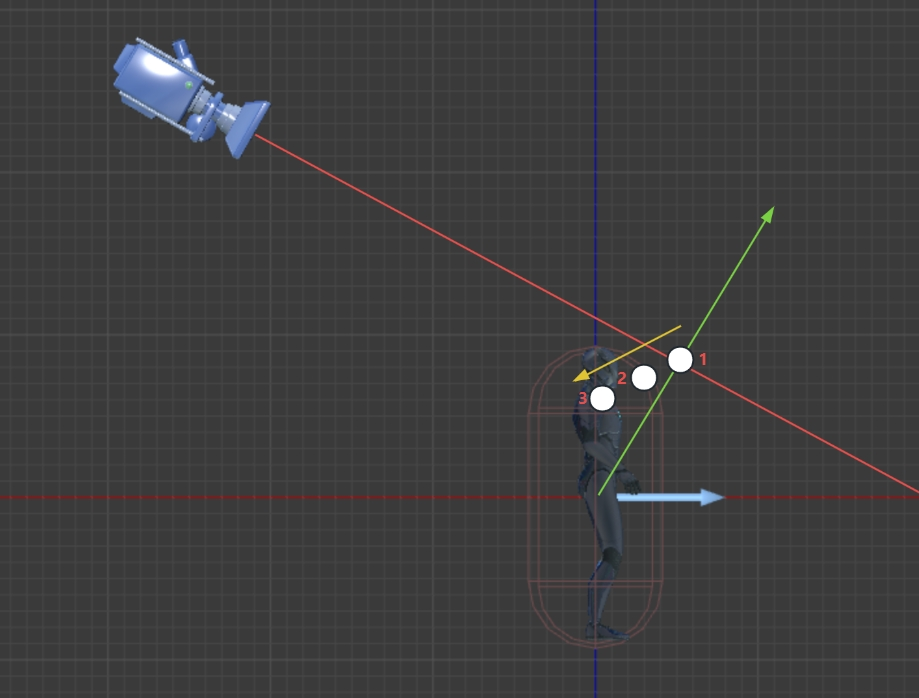
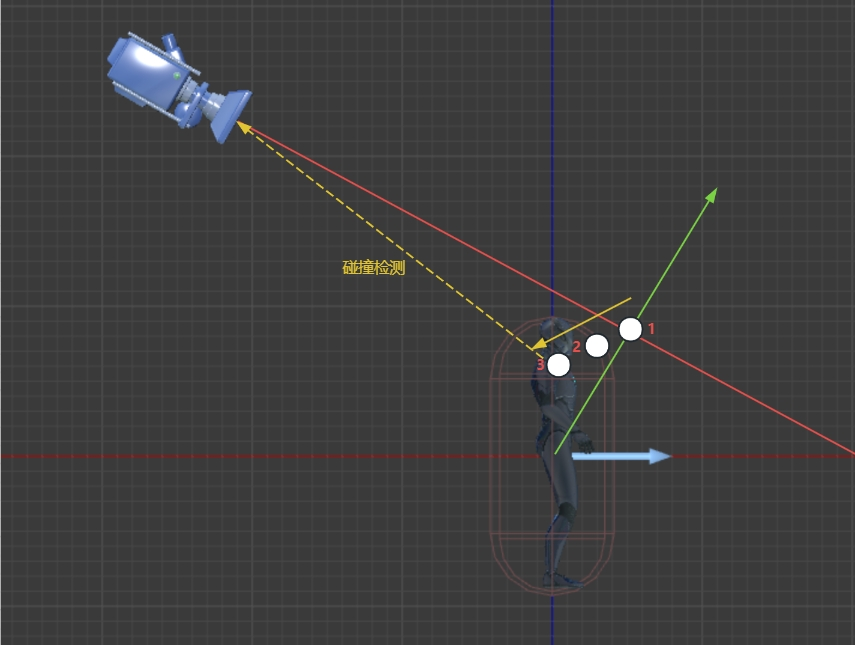
日常更新

diff --git a/Lyra中的相机系统.md b/Lyra中的相机系统.md
@@ -105,12 +105,21 @@ TSubclassOf<ULyraCameraMode> ULyraHeroComponent::DetermineCameraMode() const
   2. bDoPredictiveAvoidance，是否要使用多条检测线，如果false的话那么机制就跟SpringArmComponent一致了
   3. CollisionPushOutDistance，做射线检测时为了避免射线在初始化位置就遭遇碰撞，一般会向胶囊体内部移动一小段距离
   4. ReportPenetrationPercent，当触发碰撞的位置离角色很近的时候需要将这个消息通过ILyraCameraAssistInterface发送给感兴趣的Actor,方便做一些处理比如隐藏手枪等等
-  5. PenetrationBlendInTime，PenetrationBlendOutTime，参考下面碰撞检测流程
-  6. PenetrationAvoidanceFeelers，定义了多个碰撞检测的规则，参考下面碰撞检测流程
+  5. PenetrationBlendInTime, 当新的碰撞位置离ViewTarget**更近**时，需要一个速度平滑的插值过去，BlendInTime就定义了这个速度
+  6. PenetrationBlendOutTime，当新的碰撞位置离ViewTarget**更远**时，需要一个速度平滑的插值过去，BlendOutTime就定义了这个速度
+  7. PenetrationAvoidanceFeelers，定义了多个碰撞检测的规则，参考下面碰撞检测流程
 
 ### 相机位置流程
 
-TODO 补图即可
+两个步骤：
+
+![Step1](./LyraCameraPic/CalViewTransformStep1.png)
+
+根据ViewRotation的Pitch查表得到XYZ，在相机的本地坐标系下应用得到下面的ViewTransform
+
+![Step2](./LyraCameraPic/CalViewTransformStep2.png)
+
+这个得到的ViewTransform是目前的待选位置，需要再通过下面的碰撞检测流程加以修正。
 
 ### 碰撞检测流程
 
@@ -118,32 +127,113 @@ UpdatePreventPenetration流程：
 
 ![UpdatePreventPenetration](./LyraCameraPic/UpdatePreventPenetration.png)
 
-1. ClosestPointOnLineToCapsuleCenter, CapsuleCenter与相机射线上最近的点
+1. ClosestPointOnLineToCapsuleCenter, CapsuleCenter与ViewTransform射线上最近的点
 
 2. 整个Capsule表面距离ClosestPointOnLineToCapsuleCenter最近的点
 
 3. 对于2的临时位置做下处理，沿着1指向2的矢量方向平移一段距离，避免碰撞检测在起始位置就遭遇碰撞，得到的点就是碰撞检测的起始位置SafeLocation
 
-这里知道的条件是起始检测位置是SafeLocation, 终点检测位置是相机的位置
+这里知道的条件是起始检测位置是SafeLocation, 终点检测位置是ViewLocation的位置
 
->_这里注意SafeLocation并不在相机朝向的射线上，比如相机看向的是右肩，而SafeLocation在胶囊体内的一个位置点上_
+>_这里注意SafeLocation并不在ViewTransform朝向的射线上，比如ViewTransform看向的是右肩，而SafeLocation在胶囊体内的一个位置点上_
 
-TODO PreventCameraPenetration
+接下来是碰撞检测的流程：
+
+上面提到了PenetrationAvoidanceFeelers这个参数，我们假设定义如下，然后再看下这些参数代表了什么：
+
+```C++
+	PenetrationAvoidanceFeelers.Add(FLyraPenetrationAvoidanceFeeler(FRotator(+00.0f, +00.0f, 0.0f), 1.00f, 1.00f, 14.f, 0));
+	PenetrationAvoidanceFeelers.Add(FLyraPenetrationAvoidanceFeeler(FRotator(+00.0f, +16.0f, 0.0f), 0.75f, 0.75f, 00.f, 3));
+	PenetrationAvoidanceFeelers.Add(FLyraPenetrationAvoidanceFeeler(FRotator(+00.0f, -16.0f, 0.0f), 0.75f, 0.75f, 00.f, 3));
+	PenetrationAvoidanceFeelers.Add(FLyraPenetrationAvoidanceFeeler(FRotator(+20.0f, +00.0f, 0.0f), 1.00f, 1.00f, 00.f, 4));
+	PenetrationAvoidanceFeelers.Add(FLyraPenetrationAvoidanceFeeler(FRotator(-20.0f, +00.0f, 0.0f), 0.50f, 0.50f, 00.f, 4));
+```
+
+检测的形状大概如下：
+
+![Feers](./LyraCameraPic/Feers.png)
+
+上面可以看到小球位置是上面所提到的SafeLocation，一红四绿是五条检测碰撞的线，红色检测线是主线，即SafeLocation到ViewTransform的直接检测，四绿是可选碰撞线可以提前预判碰撞位置，提前让相机向ViewTarget的方向移动，避免相机瞬切或者反复横跳。
+
+先说下PenetrationAvoidanceFeeler各个参数的含义：
+
+* AdjustmentRot：如果全是0表示射线方向就是SafeLocation到ViewTransform位置，命名为BaseRay, 如果Yaw或者Pitch有值时，表示以BaseRay为ForwardVector, 用AdjustmentRot的数值对BaseRay进行旋转，得到的新Vector就是检测方向
+
+* PawnWeight, WorldWeight: 代码有bug, 没有使用
+
+* Extent：碰撞检测使用的是球体，Extent表示检测球体的半径，0表示线
+
+* TraceInterval：每几帧执行一次检测，主线一般是每帧都检测，设置为0，可选碰撞检测线一般为了性能考虑需要加检测间隔时间
+
+PenetrationAvoidanceFeelers第一个必须是主线的设置，后面可以设置多个可选碰撞检测线。
+
+检测的细节如下：
+
+1. 遍历PenetrationAvoidanceFeelers数组，对于满足条件(时间间隔到了)的Feelers都要执行碰撞检测，因为主线是第一个，因此第一个检测的肯定是主线
+
+2. 遍历过程中，发生碰撞的记录碰撞点在整条碰撞线的比例位置，这里命名为TempPct，比如在起始点发生碰撞就是0，在末点位置发生碰撞就是1，含义跟Hit.Time一样，只不过Hit.Time没有考虑CollisionPushOutDistance，设想一下如果直接把相机设置到碰撞点的话，相机的画面会处于一个穿模的状态，因此会往ViewTarget方向移动一点，CollisionPushOutDistance就定义了移动的距离
+
+3. 遍历结束后DistBlockedPctThisFrame存储了所有Feelers在碰撞检测中最小的TempPct, HardBlockedPct存储了主线的TempPct, SoftBlockPct存储了所有可选线最小的TempPct
+
+4. 如果上一帧的DistBlockedPct小于DistBlockedPctThisFrame，说明这时候相机位置需要往远离ViewTarget的位置移动即SmoothlyOut；
+
+5. 如果上一帧的DistBlockedPct大于DistBlockedPctThisFrame，说明相机需要往靠近ViewTarget的位置移动，这时候需要判断是因为主线的缘故还是可选线的缘故，如果是主线的缘故即DistBlockedPct > HardBlockedPct说明碰撞物直接挡住了玩家的视野，可以直接移动过去；如果DistBlockedPct <= HardBlockedPct说明主线在远离ViewTarget的位置上，而可选线嗅到了即将要面临的碰撞物，因此会使用SoftBlockedPct
+
+6. 通过最终计算的Pct, 在**BaseRay**上找到位置，设置给ViewLocation
+
+需要注意的细节：
+
+1. 最终的位置是在BaseRay上选取的，其他可选线只是辅助计算一个理想的Pct, 并不会在这些可选线上选点！
+
+2. 一旦可选线本帧发生了碰撞会强制下一帧也继续检测，避免静止状态下多个可选线在一段时间里选出不同的Pct, 导致镜头位置抖动
+
+多个可选线有什么优势呢？
+
+假如角色头顶上是这些障碍物，角色需要在这些障碍物下面穿过。
+
+![FeersExample1](./LyraCameraPic/FeersExample1.png)
+
+这一帧时因为主线已经发生了碰撞，假如Pct等于0.5, 那么通过比较发现主线的Pct最小最终使用的Pct等于0.5，相机位置在障碍物下方，可以清晰看到角色。
+
+角色继续移动：
+
+![FeersExample2](./LyraCameraPic/FeersExample2.png)
+
+可以看到主线检测过程中没有发生碰撞，因此主线得到的Pct为1，如果没有可选线的话相机的位置会立即到障碍物上方，持续行走的话相机位置反复跳变。
+
+加上Feers的功能后, 虽然主线没有发生碰撞，但是可选线发生了碰撞，比如这些可选线返回的最小Pct为0.4，根据上面的流程提到的，相机会平滑的位移一点点。可以看到这些可选线像触角一样，提前感知到了附近的障碍物，提前计算好了一个合适的位置来应对这些障碍物。
+
+如果在这一帧不动了，上面提到过一旦可选线本帧发生了碰撞会强制下一帧也继续检测，因此不会出现抖动的问题，因此后面得到的一直是0.4
 
 ## Lyra示例
 
 ### 过肩视角
 
+TargetOffsetY，在相机位置流程时通过偏移控制相机位置
+
+![TargetOffsetCurve](./LyraCameraPic/TargetOffsetCurve.png)
+
 ### 开镜实现
+
+CM_ThirdPersonADS，上面已经提到过的第三人称角色开镜举例
 
 ### 射击时目标判断
 
-(AimUI以及碰撞判定逻辑)
+UI为W_WeaponReticleHost
+
+![AimUI](./LyraCameraPic/AimUI.png)
+
+可以看到HorizontalAlignment和VerticalAlignment都是Fill, 因此准心一直是UI的中心点位置。
+
+瞄准时碰撞检测的代码在ULyraGameplayAbility_RangedWeapon::PerformLocalTargeting中，而获取碰撞检测起始点位置和朝向则调用的是ULyraGameplayAbility_RangedWeapon::GetTargetingTransform, 不同游戏可能碰撞起始点位置朝向不同，比如基于相机，基于真实武器位置等等，Lyra基于的是相机朝向，跟PlayerController::GetPlayerViewPoint函数相关。
 
 ## Lyra对比传统方案的优势以及不足
 
-数据驱动的优势
-Feeler对比SpringArm的优势
+数据驱动的优势，利用Stack-CameraMode模式，玩法可以动态替换而不用替换或者修改CameraComponent。
+
+Feeler对比SpringArm的优势，对于复杂地形更加稳定
+
+不足是代码处于半成品，很多bug以及TODO
 
 ## 总结
 
